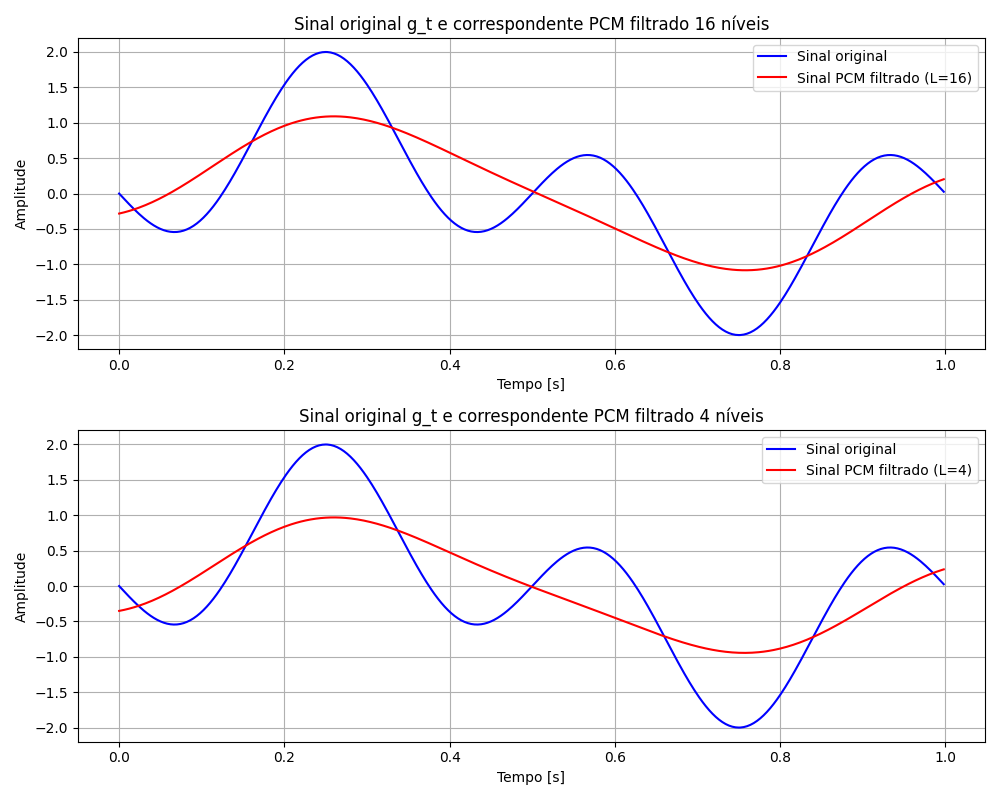
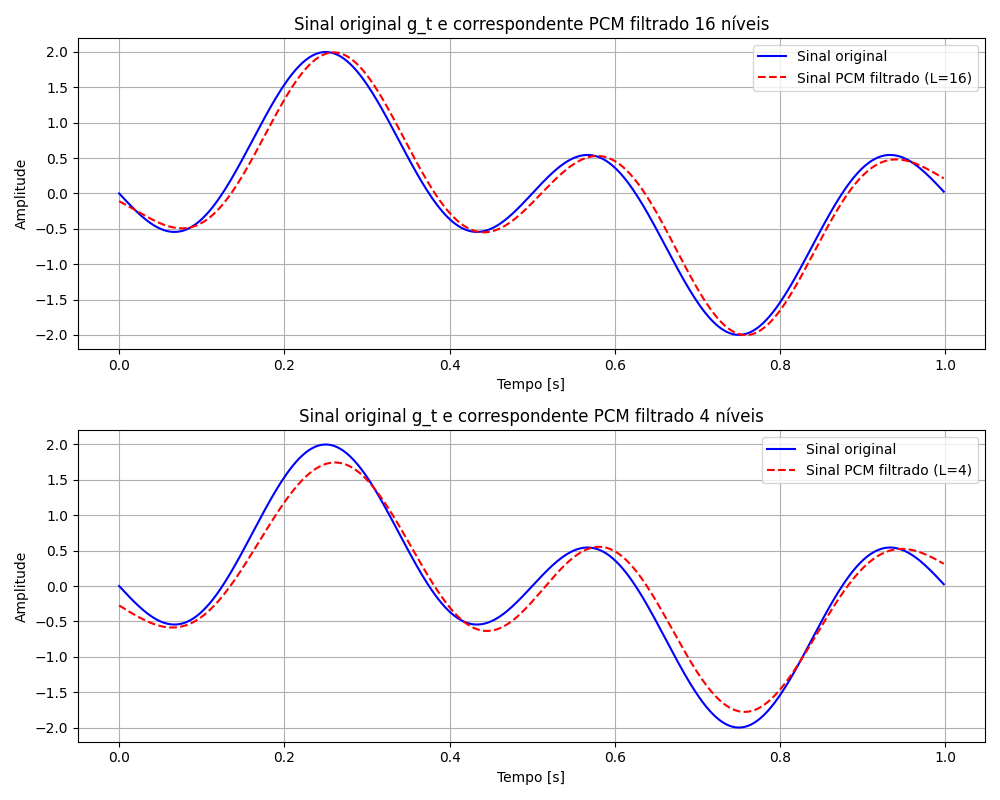
fix: largura de banda do filtro

diff --git a/exPCM.py b/exPCM.py
@@ -58,7 +58,7 @@ SQH2 = np.fft.fftshift(SQH2) # transformada de Fourier do sinal PCM
 # usa passa-baixas para filtrar os dois sinais PCM
 BW = 10 # largura de banda do filtro passa-baixa
 H_1pf = np.zeros(int(Lfft))
-H_1pf[int(Lfft/2-BW/2):int(Lfft/2+BW/2)] = 1 # filtro passa-baixa ideal
+H_1pf[int(Lfft/2-BW):int(Lfft/2+BW)] = 1 # filtro passa-baixa ideal
 
 # sinal PCM L=16 filtrado
 S1_recv = SQH1*H_1pf # sinal PCM filtrado
@@ -74,7 +74,7 @@ s_recv2 = s_recv2[:Lsig] # ajusta o comprimento do sinal
 plt.figure(figsize=(10, 8))
 plt.subplot(2,1,1)
 plt.plot(t, xsig, 'b', label='Sinal original')
-plt.plot(t, s_recv1, 'r', label='Sinal PCM filtrado (L=16)')
+plt.plot(t, s_recv1, 'r--', label='Sinal PCM filtrado (L=16)')
 plt.title('Sinal original g_t e correspondente PCM filtrado 16 níveis')
 plt.xlabel('Tempo [s]')
 plt.ylabel('Amplitude')
@@ -83,7 +83,7 @@ plt.grid()
 
 plt.subplot(2,1,2)
 plt.plot(t, xsig, 'b', label='Sinal original')
-plt.plot(t, s_recv2, 'r', label='Sinal PCM filtrado (L=4)')
+plt.plot(t, s_recv2, 'r--', label='Sinal PCM filtrado (L=4)')
 plt.title('Sinal original g_t e correspondente PCM filtrado 4 níveis')
 plt.xlabel('Tempo [s]')
 plt.ylabel('Amplitude')
